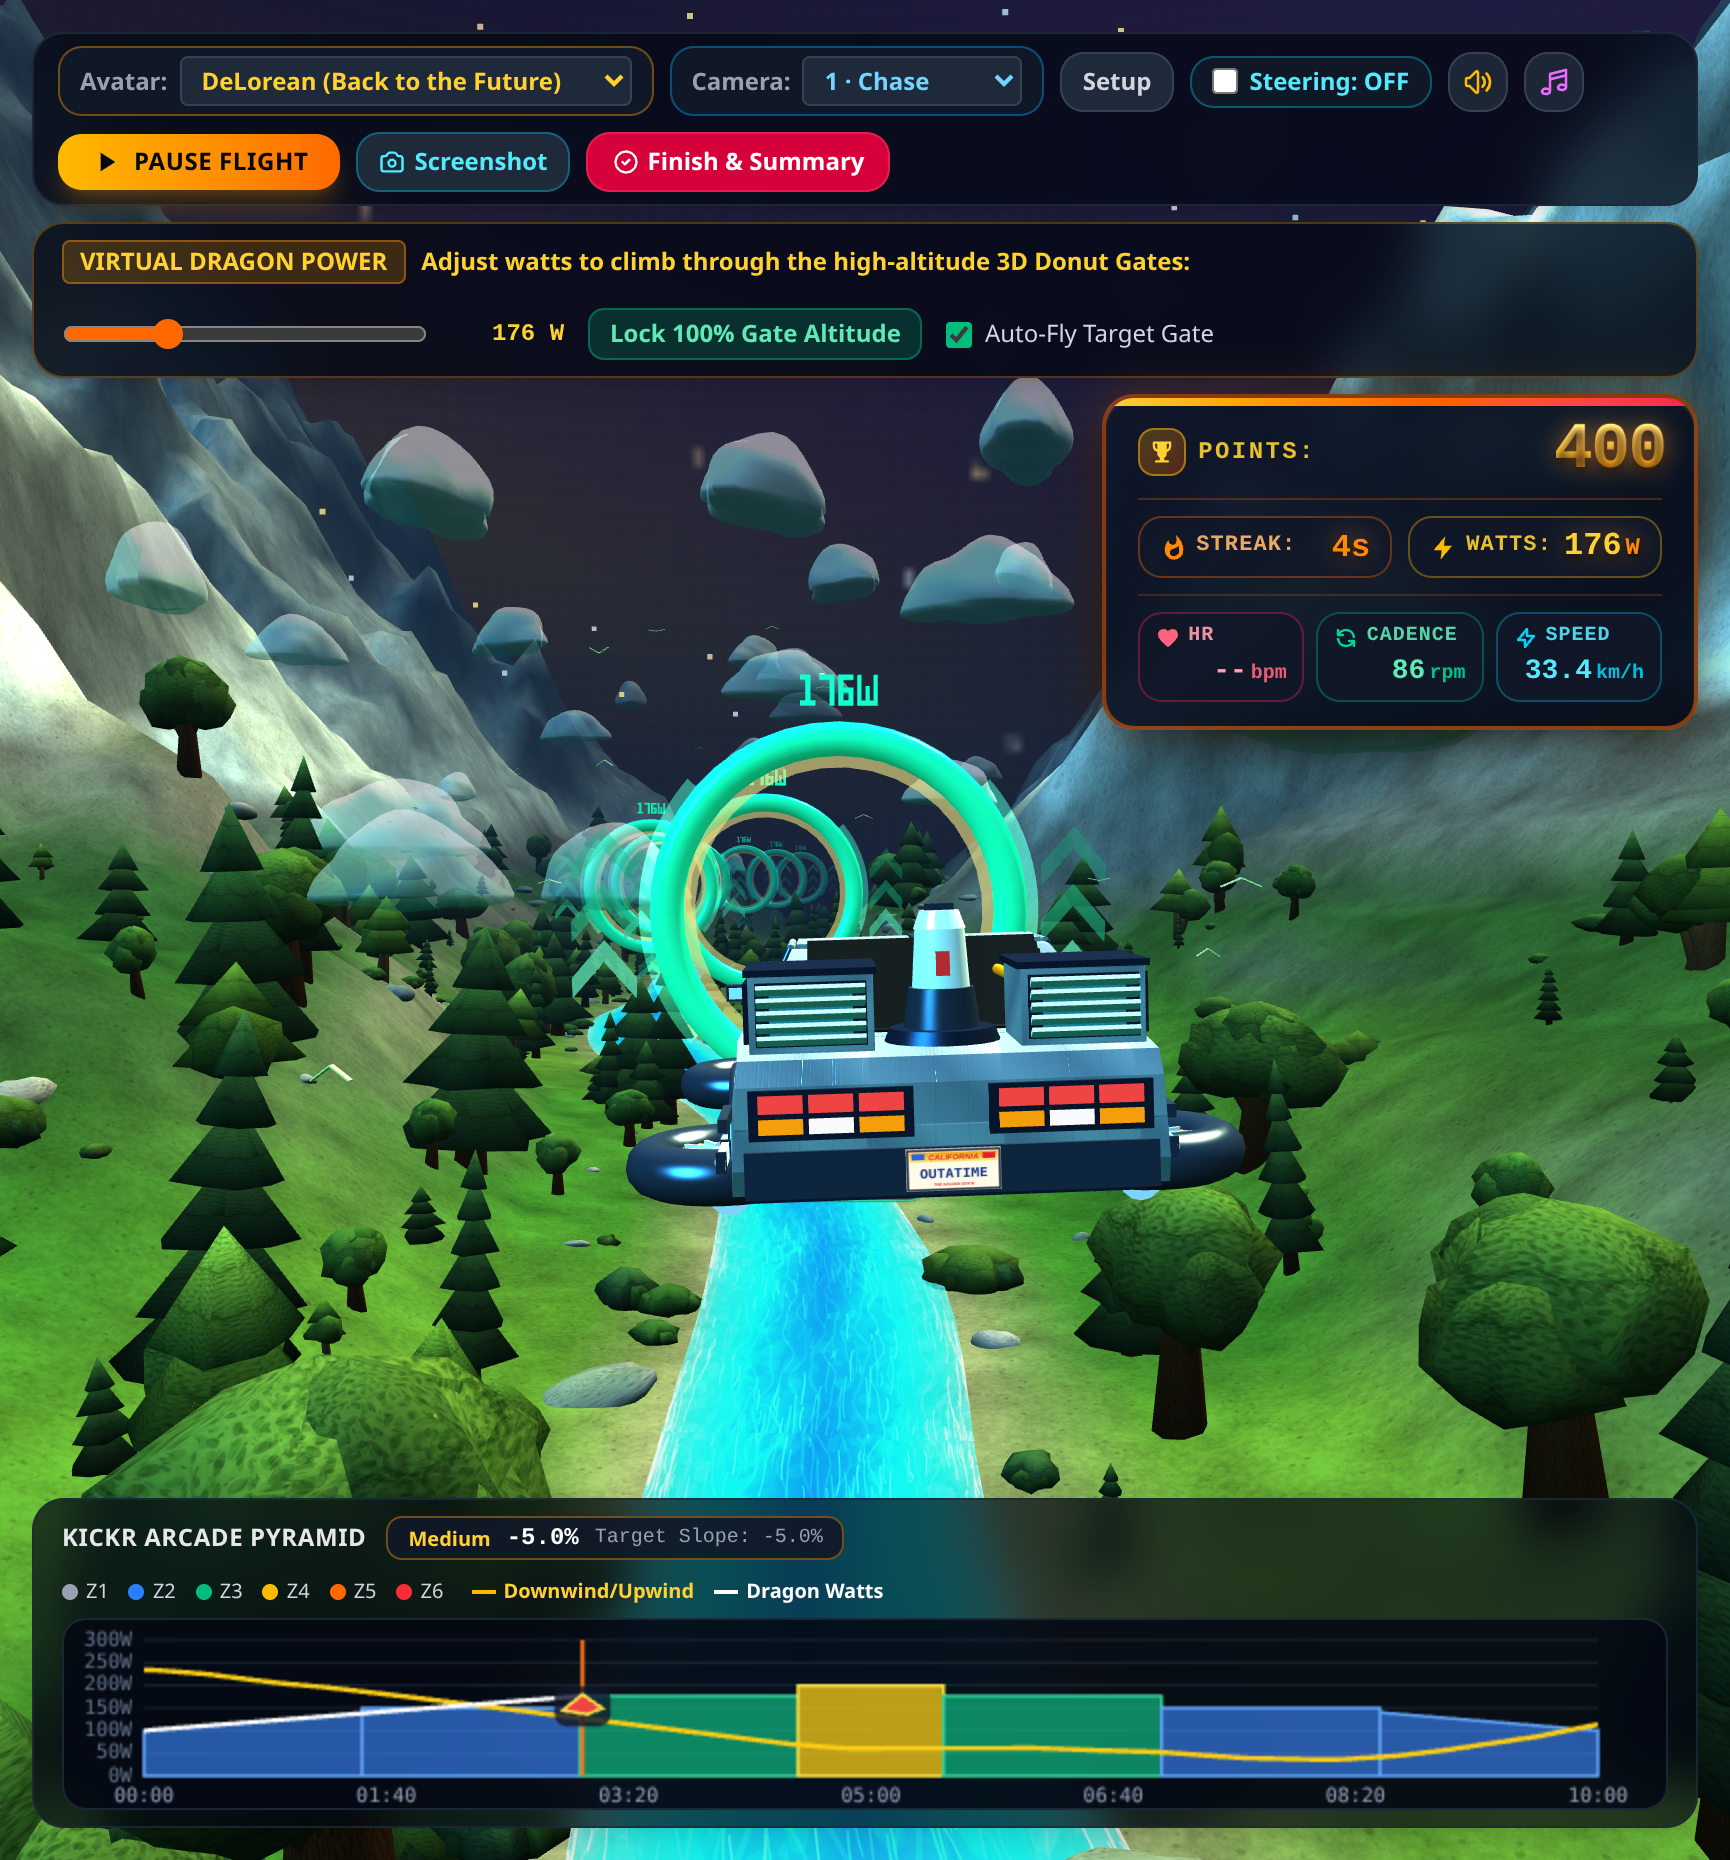
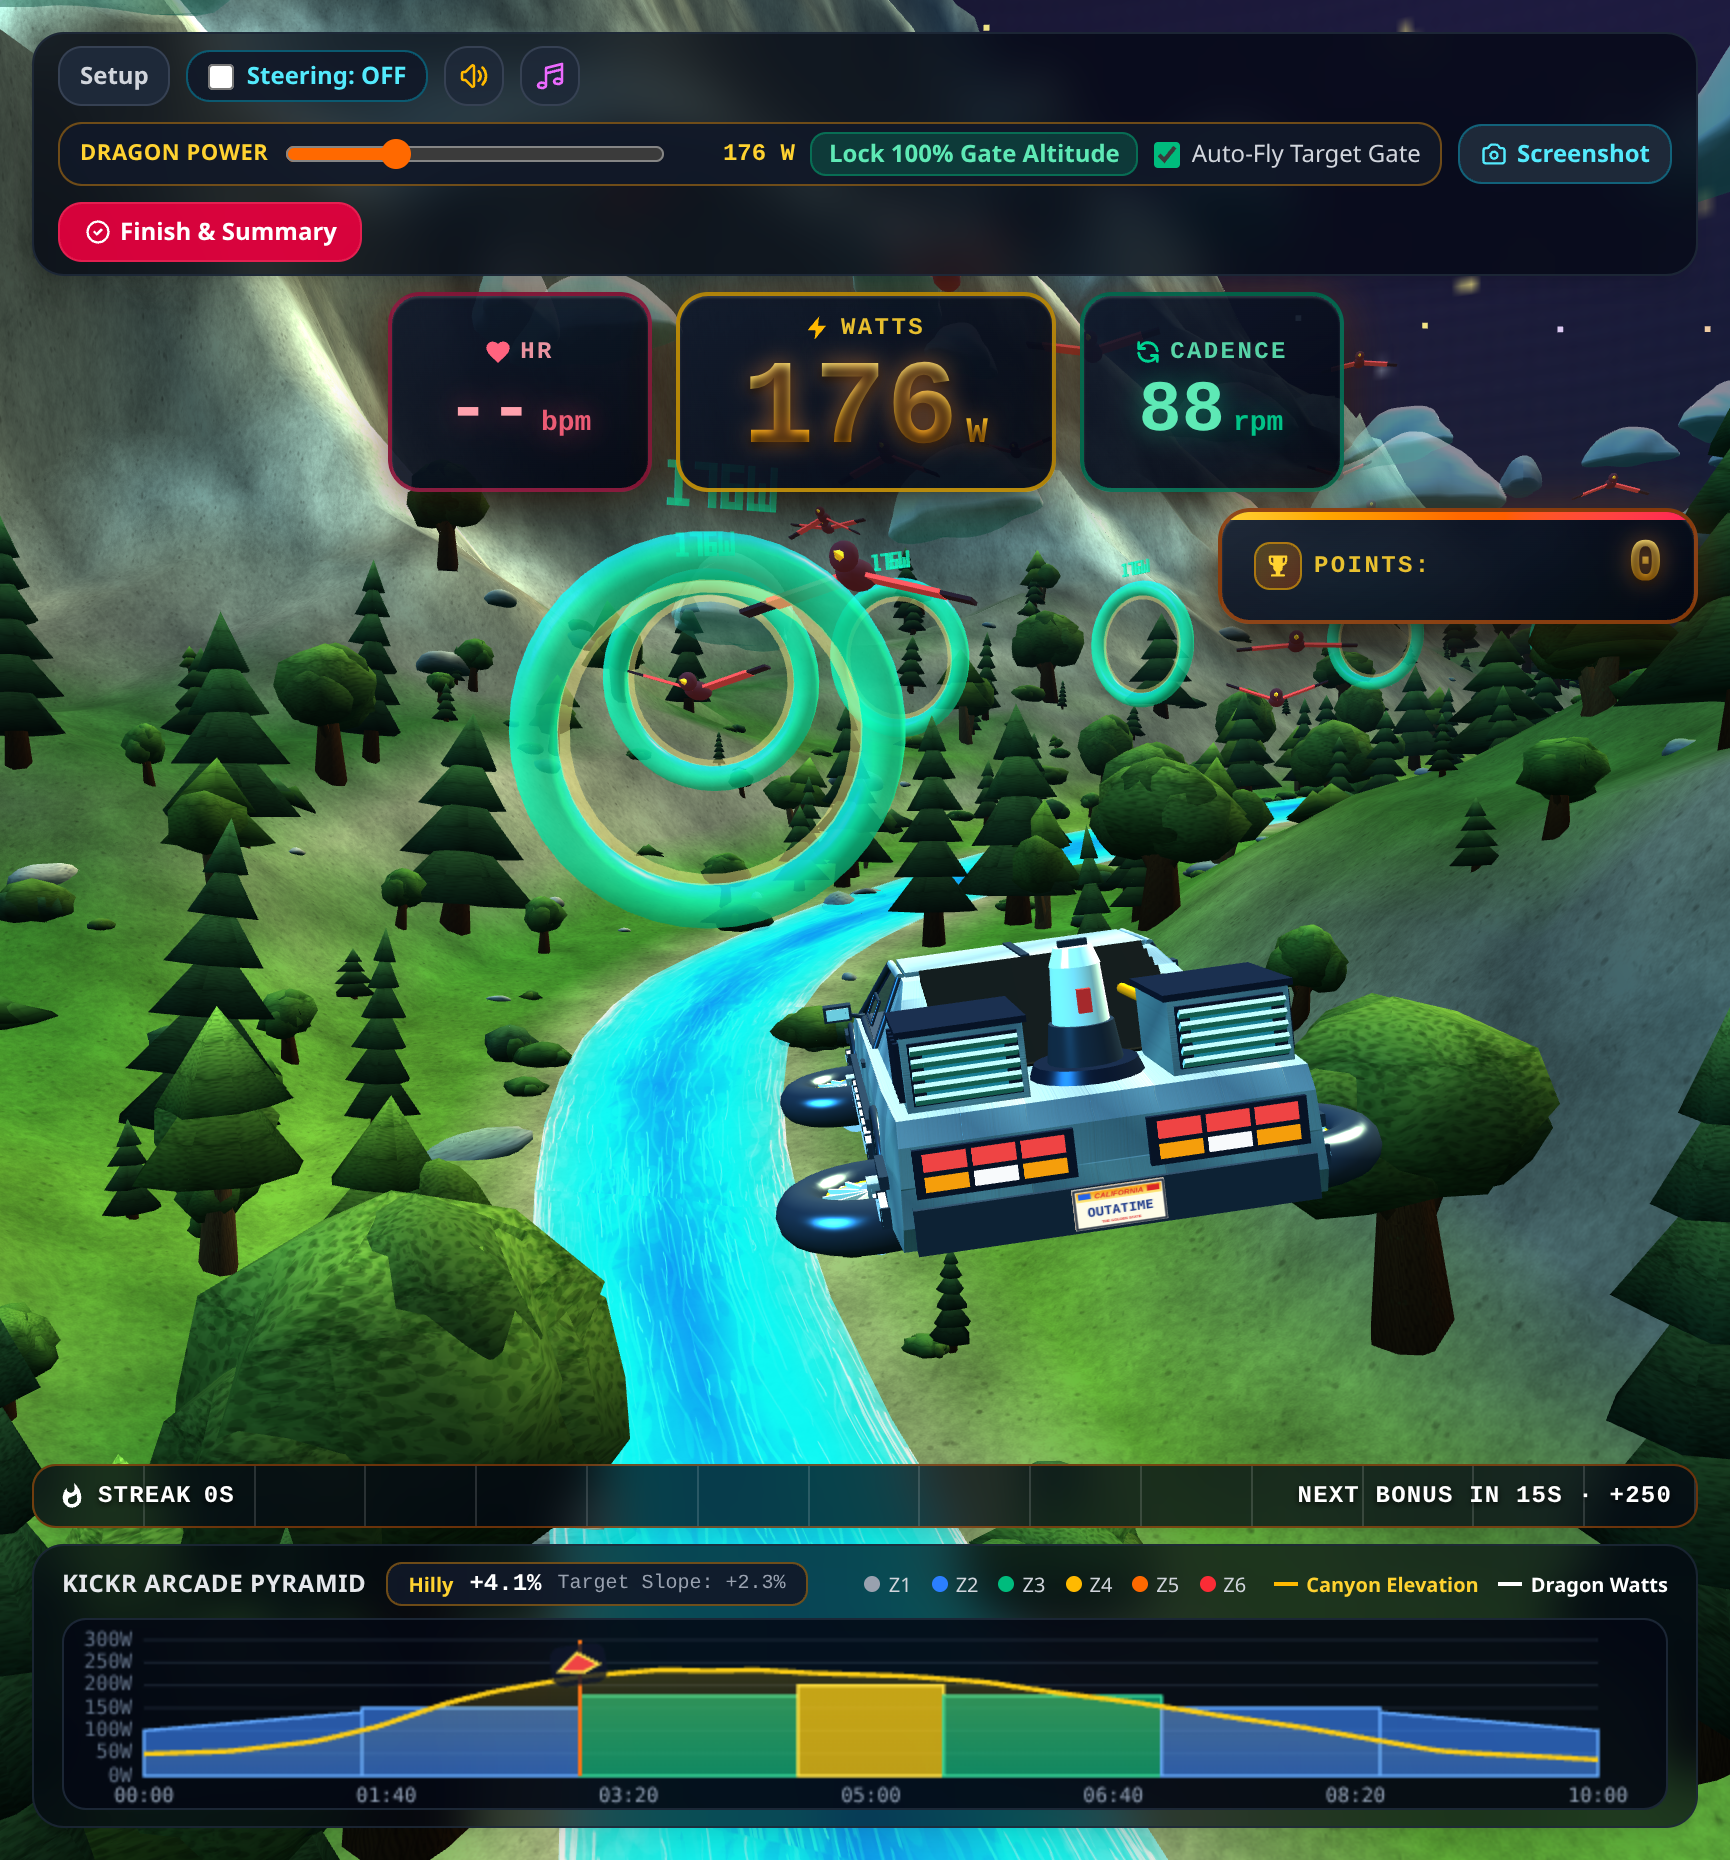
Enhance screenshot capture logic to skip countdown and improve flight initiation

diff --git a/.github/skills/update-readme/capture_screenshots.py b/.github/skills/update-readme/capture_screenshots.py
@@ -232,8 +232,13 @@ def configure_flight_controls(
             const avatarStartBtn = document.getElementById('avatarStartFlightBtn');
             if (typeof state !== 'undefined' && state.currentScreen === 'avatar' && !state.isRunning && avatarStartBtn) {{
                 avatarStartBtn.click();
-            }} else if (typeof state !== 'undefined' && !state.isRunning) {{
+            }} else if (typeof state !== 'undefined' && !state.isRunning && !state.isCountdownActive) {{
                 startFlight();
+            }}
+            // Skip the pre-flight 3-2-1 countdown & GO flash so active-flight screenshots show clean flight
+            if (typeof state !== 'undefined' && state.isCountdownActive) {{
+                if (typeof cancelStartCountdown === 'function') cancelStartCountdown();
+                if (typeof beginActiveFlight === 'function') beginActiveFlight();
             }}
         }}
 
@@ -253,6 +258,10 @@ def configure_flight_controls(
         // 5. Temporarily set forward velocity to zero so no forward movement happens and no gate is reached
         if (typeof dragon3D !== 'undefined' && dragon3D) {{
             if ({'true' if freeze_forward_velocity else 'false'}) {{
+                if (typeof workoutTickIntervalId !== 'undefined' && workoutTickIntervalId !== null) {{
+                    clearInterval(workoutTickIntervalId);
+                    workoutTickIntervalId = null;
+                }}
                 if (!dragon3D._origUpdateForScreenshots) {{
                     dragon3D._origUpdateForScreenshots = dragon3D.update.bind(dragon3D);
                     dragon3D.update = function(dt) {{
@@ -288,6 +297,9 @@ def configure_flight_controls(
                 dragon3D.subSec = 0;
                 dragon3D.flightZ = 0;
             }} else {{
+                if (typeof restartWorkoutTickInterval === 'function') {{
+                    restartWorkoutTickInterval();
+                }}
                 const fsc = document.getElementById('floatingScoreContainer');
                 if (fsc) fsc.style.display = '';
                 if (dragon3D._origUpdateForScreenshots) {{

diff --git a/README.md b/README.md
@@ -19,7 +19,7 @@ No server or package installation is required. The page loads Three.js and Tailw
    - **Splashscreen:** Click **Start Setup** from the dragon hero screen. Or click **Ghost Battle** (see [Ghost rides](#ghost-battle)) to pick a saved ghost ride, choose your avatar, and race it.
    - **1 · Pairing & Rules:** Pair Bluetooth devices (or enable the Virtual Trainer Simulator and **Auto-Fly Target Gate**) and configure steering and 3D obstacles.
    - **2 · Training Selection:** Filter the 26 built-in presets by duration (`≤15m`, `16–30m`, `30m+`) and intensity (`Endurance`, `Sweet Spot`, `Threshold`, `VO2max / HIIT`, `FTP Test`), upload a Zwift `.zwo` file, or load a saved `.loop-kicker-journey-ghost.json` ghost ride, then set your FTP, preview expected **Avg** watts / **IF** / **TSS**, and choose a resistance/slope mode.
-   - **3 · Avatar Selection:** Choose your 3D avatar over a live sky preview, then click **Start Flight**.
+   - **3 · Avatar Selection:** Choose your 3D avatar over a live sky preview, then click **Start Flight** to trigger a 3-second pre-flight countdown (`3–2–1–GO!`) with audio cues.
    - **4 · Flight & Summary:** Fly through the target-watt donut gates and finish to view the **Workout Summary** screen (`.fit` and `.png` export; with `server.js` also **Save** of your score & ghost ride under your name).
 
 Simulation mode is enabled by default, so you can try the game without a trainer. Bluetooth requires a compatible browser; the Web Bluetooth API is supported by browsers such as current versions of Chrome and Edge. Bluetooth is available only in a secure context (for example, `localhost` or HTTPS).
@@ -46,7 +46,7 @@ Available workouts can be filtered by duration and physiological intensity:
 - **Arcade & Ramp Challenges:** **KICKR Arcade Pyramid**, **Quick 3-Minute Accuracy Sprint**, **Sky Serpent Up & Down Ramps**, **Alpine Switchback Double Ramps**, **Mach Canyon Dive & Climb Level**, **Dragon Boss Mega-Ramp Gauntlet**, **Dragon Canyon Rollercoaster**, and **Alpine Sawtooth Multi-Peak**
 - **Physiologically Structured Workouts:** **Active Recovery Flush (Z1)**, **Mitochondrial Zone 2 Base**, **Polarized LT1 Aerobic Cruiser**, **2×12m Sweet Spot Builder**, **Muscular Force Tempo (SE)**, **MCT1 Lactate Shuttle Over-Unders**, **2×15m MLSS Threshold Cruise**, **Rønnestad 30/15 VO2max Blocks**, **Norwegian 4×4m VO2max Cardiac**, and **Billat Fast-Start VO2 Kinetics**
 - **HIIT & Race Simulations:** **30/15 VO2max Micro-Burst Storm**, **Dragon Fire Tabata Inferno**, **Over-Under Surge Blitz**, **Harmonic Wave & Step Matrix**, **Sweet Spot Precision**, and **Pro Criterium Corner Sprints**
-- **FTP Ramp Tests:** **Standard MAP / FTP Ramp Test** (`+20 W/min` up to `580 W`) and **Lite / Finer-Step FTP Ramp Test (+10W)** (`+10 W/min` up to `560 W`) — progressive 1-minute fixed-watt ramps ridden to exhaustion, estimating FTP values past `400 W` regardless of your prior FTP setting. An active FTP Test badge is shown in the HUD, and stopping pedaling for 5 seconds automatically finishes the flight, displays your calculated FTP (`75%` of best 1-minute average power) prominently in the summary, and saves it to `localStorage` as your default FTP for future trainings.
+- **FTP Ramp Tests:** **Standard MAP / FTP Ramp Test** (`+20 W/min` up to `580 W`) and **Lite / Finer-Step FTP Ramp Test (+10W)** (`+10 W/min` up to `560 W`) — progressive 1-minute fixed-watt ramps ridden to exhaustion, estimating FTP values past `400 W` regardless of your prior FTP setting. During an FTP test, the canyon flies straight, birds/obstacles are disabled, and an active FTP Test badge is shown in the HUD. Stopping pedaling (`0 W`) shows a 5-second auto-stop countdown inside the pause overlay before automatically finishing the flight, displaying your calculated FTP (`75%` of best 1-minute average power) prominently in the summary, and saving it to `localStorage` as your default FTP for future trainings.
 - **Custom Zwift workouts** in `.zwo` format
 
 Resistance modes are **Flat** (`0%` flat), **Hilly** (rolling hills), and **ERG Lock**. In **Hilly** mode, the random 3D canyon terrain is generated once per workout so it stays the same whenever the same workout is ridden again, and the canyon floor, river, forest, and flight path physically climb and descend along the terrain elevation profile. Your watts only set the dragon's altitude; its forward speed is fixed and only changes with the terrain: it flies slower uphill and faster downhill, and the 3D distance between donut gates scales with that speed. Flight pauses whenever `0 W` are generated. During a flight, **Setup** pauses the workout and returning to the flight resumes it; **Finish & Summary** ends a workout early. The avatar can only be changed in setup.
